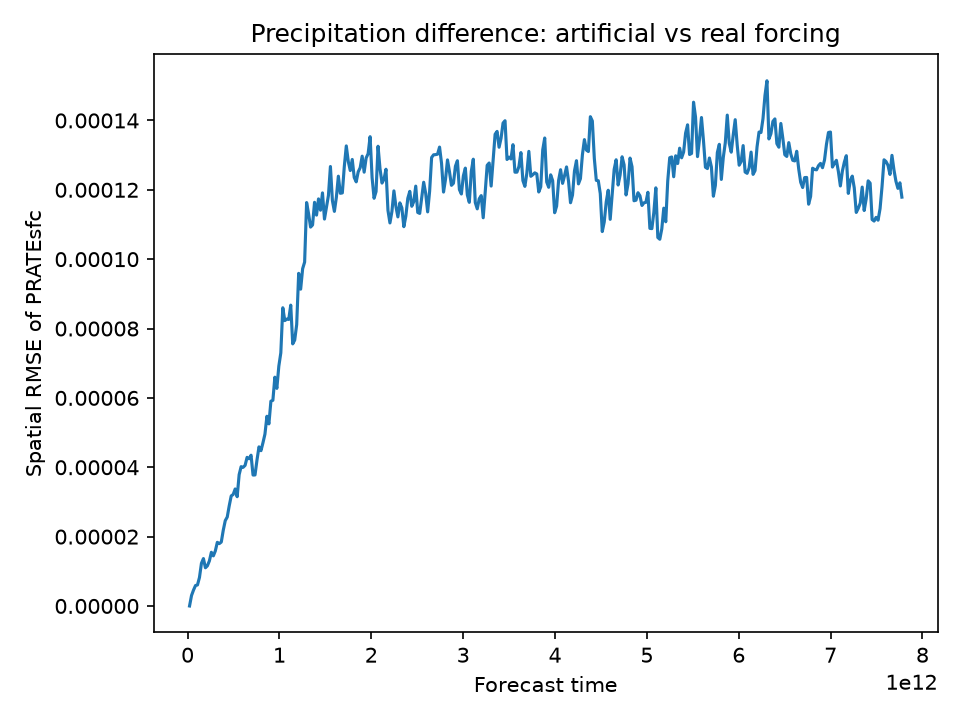
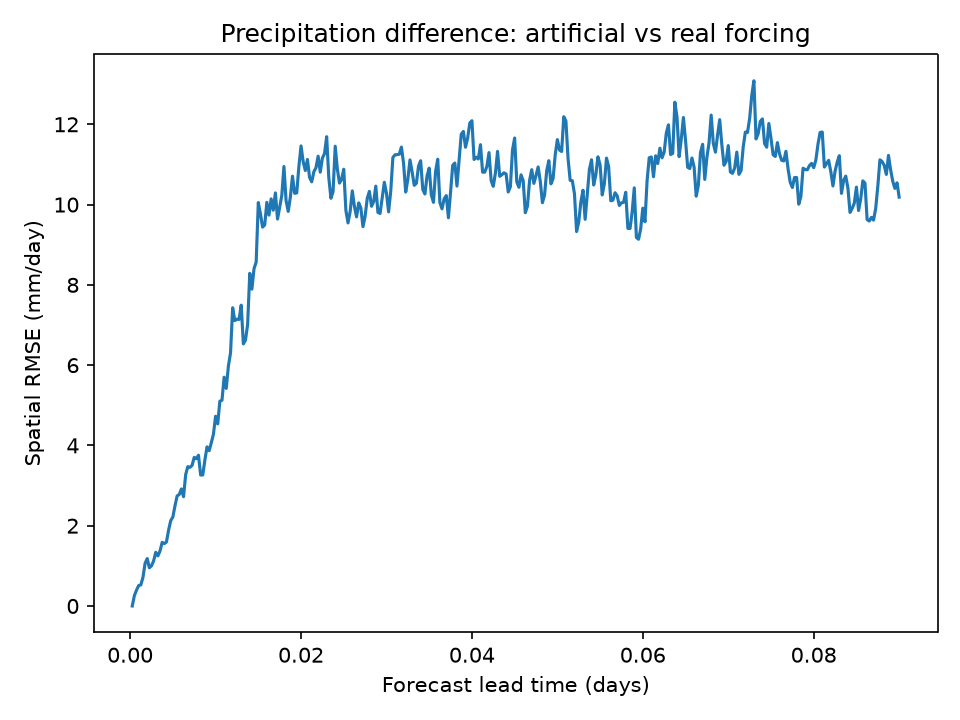
change units

diff --git a/compare_outputs.py b/compare_outputs.py
@@ -18,11 +18,15 @@ lon = "longitude" if "longitude" in real.dims else "lon"
 weights = np.cos(np.deg2rad(real[lat]))
 
 rmse = np.sqrt(((artificial - real) ** 2).weighted(weights).mean((lat, lon)))
+rmse = rmse.squeeze(drop=True)
 
-rmse.plot()
+lead_days = rmse["time"] / (1e9 * 60 * 60 * 24)
+rmse_mm_day = rmse * 86400
+
+plt.plot(lead_days, rmse_mm_day)
 plt.title("Precipitation difference: artificial vs real forcing")
-plt.ylabel("Spatial RMSE of PRATEsfc")
-plt.xlabel("Forecast time")
+plt.xlabel("Forecast lead time (days)")
+plt.ylabel("Spatial RMSE (mm/day)")
 plt.tight_layout()
 plt.savefig("precipitation_difference.png", dpi=150)
 plt.show()